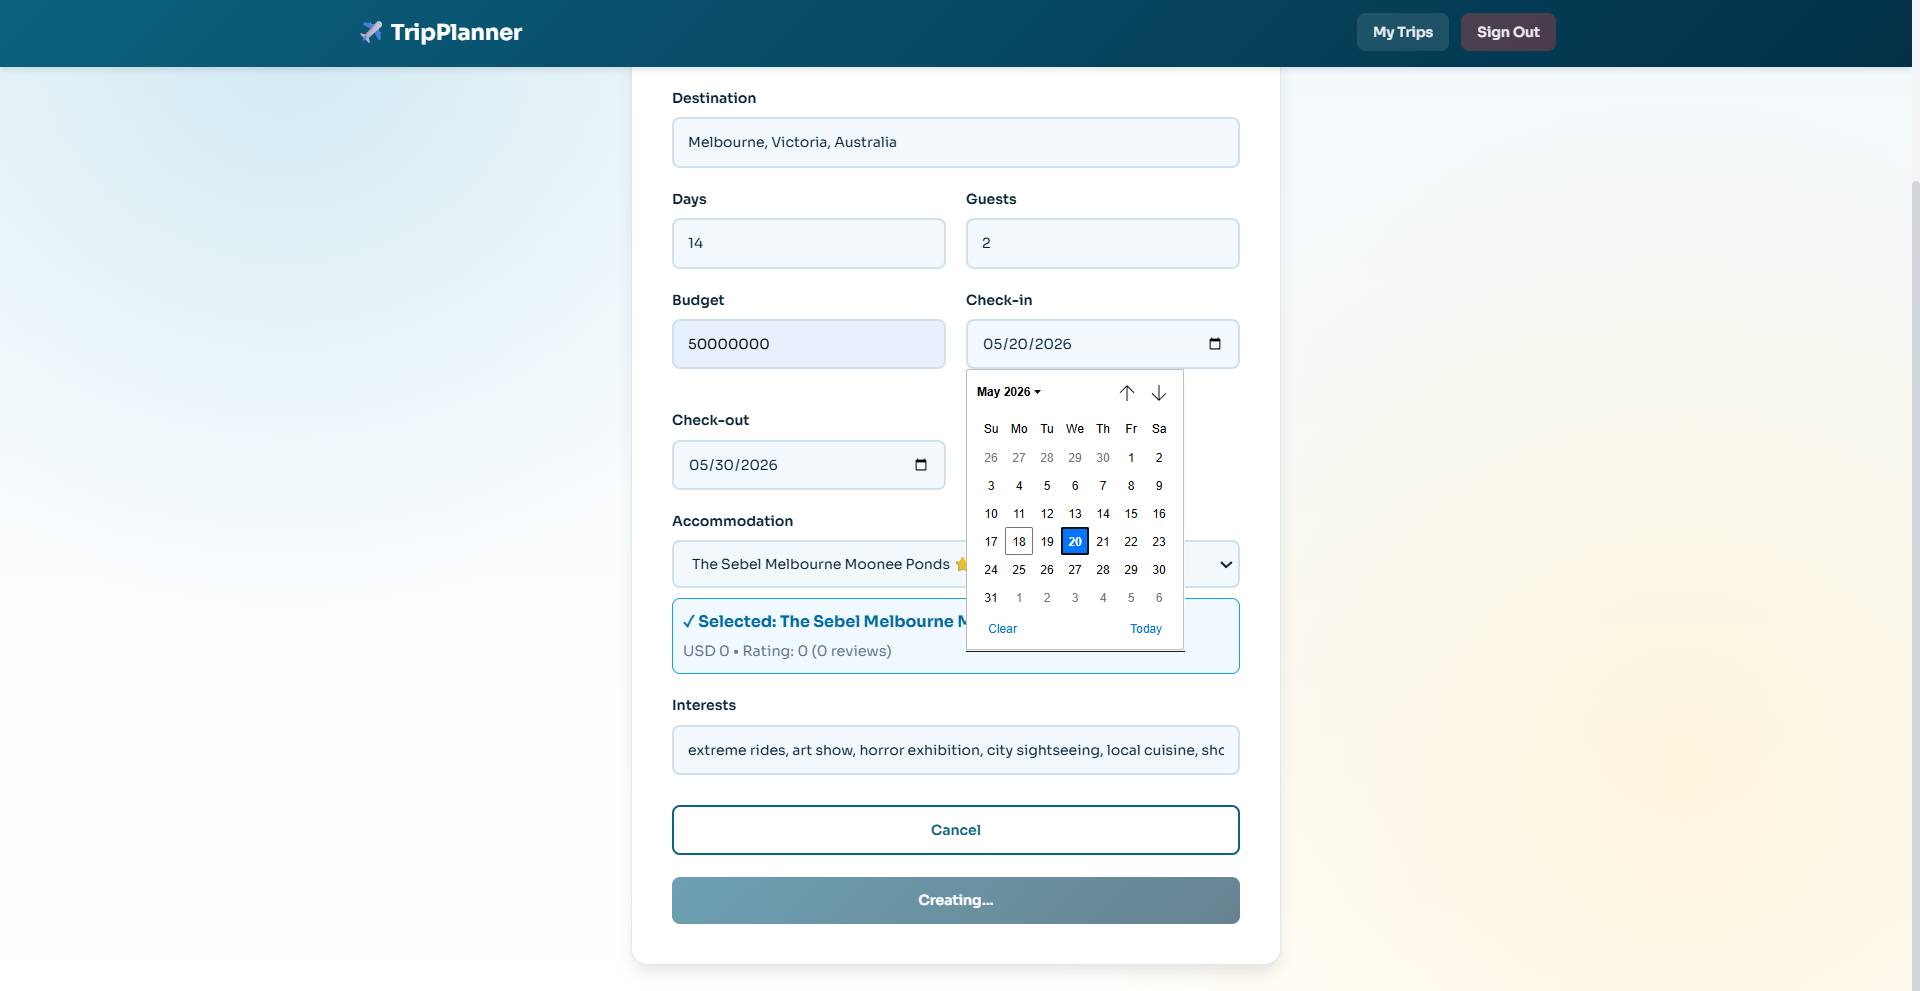
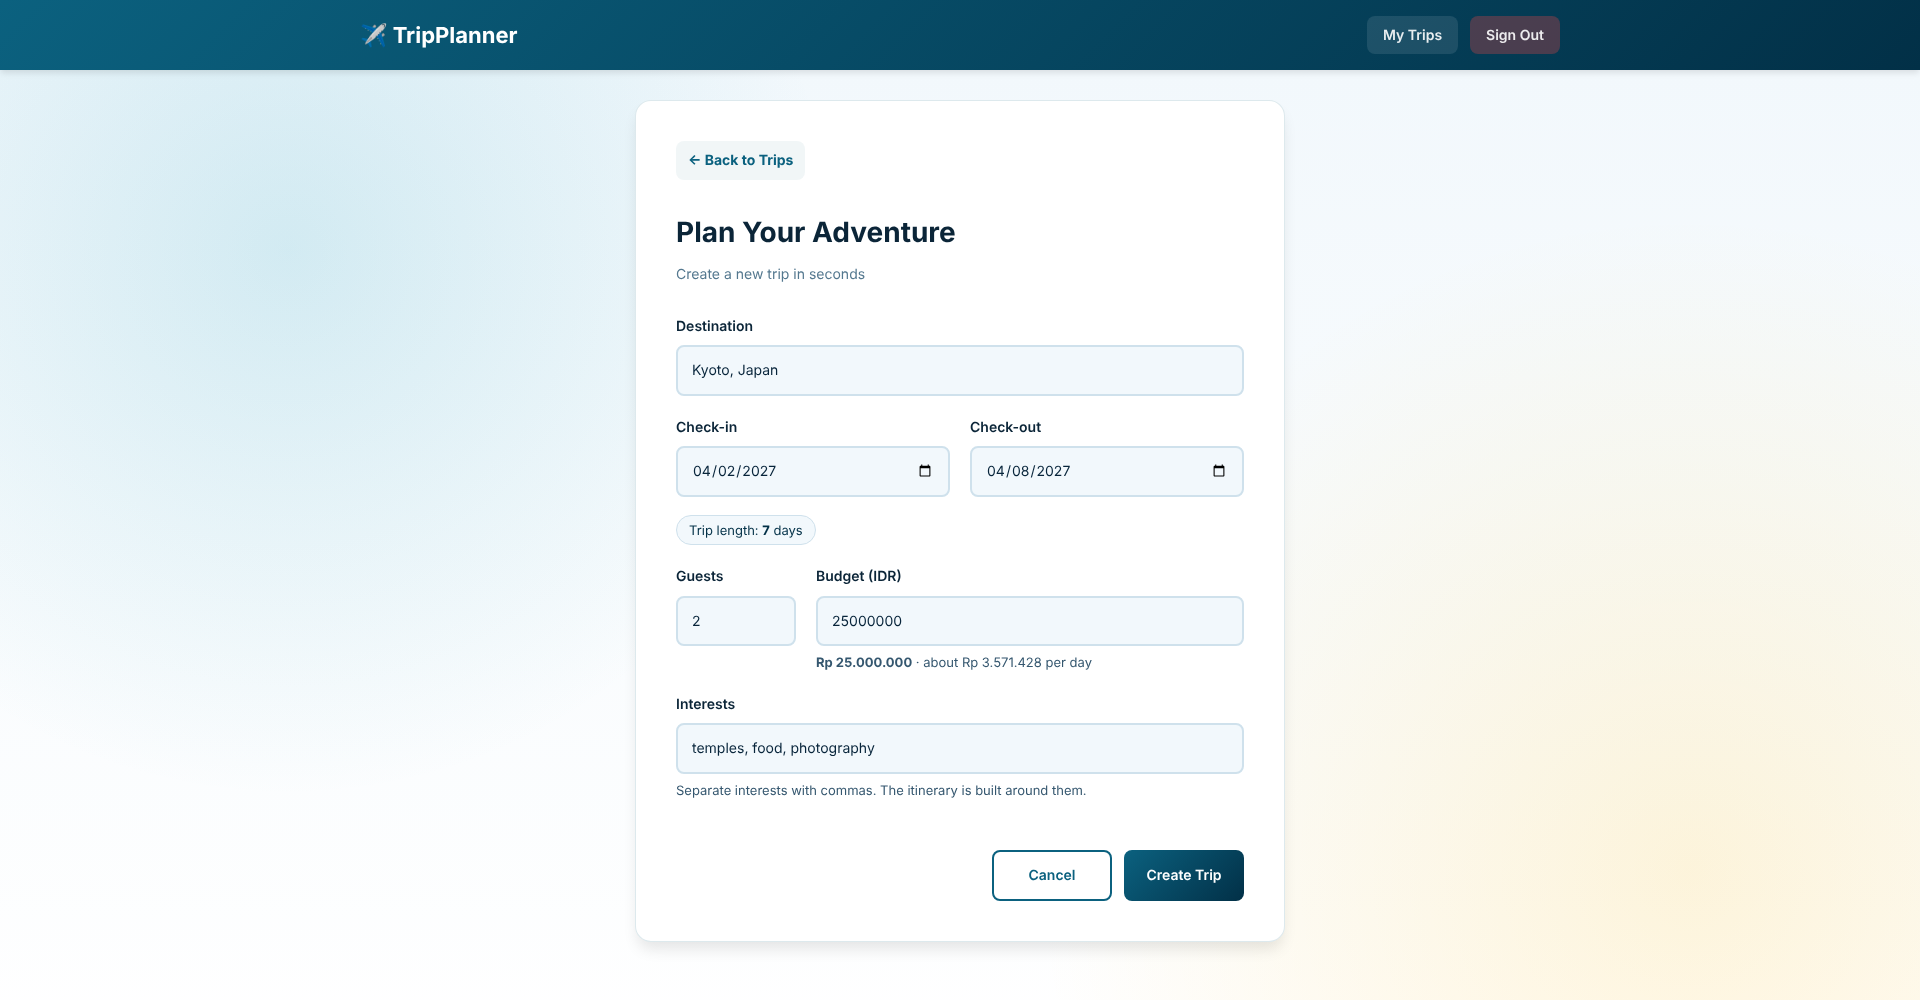
feat(projects): refresh TripPlanner screenshots after the redesign
Use the new vacation-themed trip detail page as the project card cover and
replace the outdated My Trips, Create Trip and Itinerary Detail screenshots.

Claude-Session: https://claude.ai/code/session_01XJVg7ACVVuQWXrjGk6yEsr

diff --git a/lib/projects-data.ts b/lib/projects-data.ts
@@ -234,7 +234,11 @@ export const projectsData: ProjectData[] = [
       'Gemini call wrapped in a helper that falls back gracefully — if the API key is absent or the call fails, the trip is still created with a null itinerary rather than blocking the flow',
       'Both client and server are deployed as separate Vercel projects; GitHub OAuth redirect URI is configured to point at the server URL, with the token passed back to the client via query param redirect',
     ],
-    cover: { variant: 'browser', src: '/tripplanner/my_trips.png', alt: 'TripPlanner My Trips page with trip cards' },
+    cover: {
+      variant: 'browser',
+      src: '/tripplanner/itinerary_detail.png',
+      alt: 'TripPlanner trip detail page with a vacation-themed header and itinerary summary',
+    },
     screenshots: [
       {
         src: '/tripplanner/landing_page.png',
@@ -248,7 +252,7 @@ export const projectsData: ProjectData[] = [
       },
       {
         src: '/tripplanner/create_trip.png',
-        alt: 'Create trip with hotel selection',
+        alt: 'Create trip form with dates, guests, budget and interests',
         label: 'Create Trip',
       },
       {
